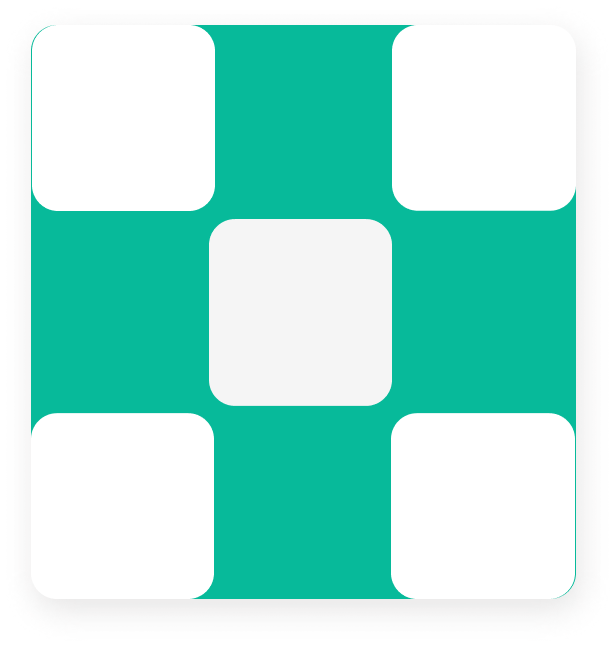
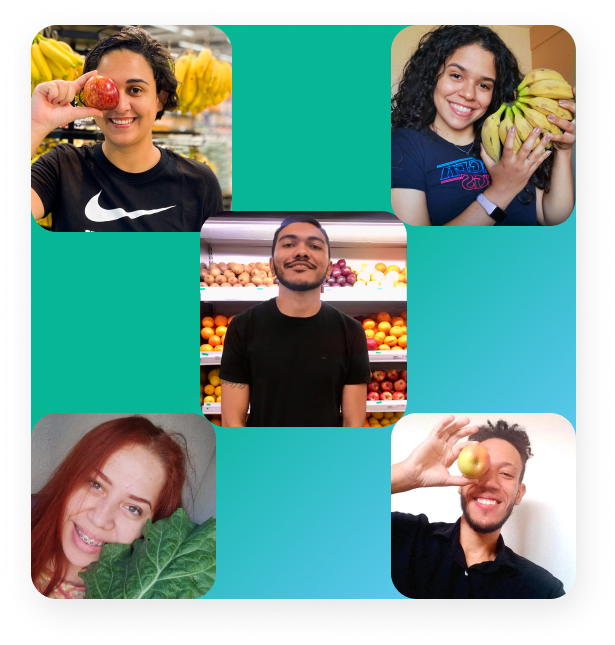
adicionado as fotos de todos os integrantes na home

diff --git a/src/pages/Home/index.jsx b/src/pages/Home/index.jsx
@@ -5,7 +5,7 @@ import arrowUp from '../../assets/home/arrow-up.png';
 import imgPage from '../../assets/home/imgPage.png';
 import selo from '../../assets/home/selo.png';
 import logoPage from '../../assets/home/logoPage.png';
-import equipe from '../../assets/home/Fotos-EquipeIntegrantes.png';
+import equipe from '../../assets/home/Fotos-Equipe.png';
 import elipse from '../../assets/home/elipse.png';
 import bolinhas from '../../assets/home/bolinhas.png';
 import rectangleCadastro from '../../assets/home/rectangle-cadastro.png';
